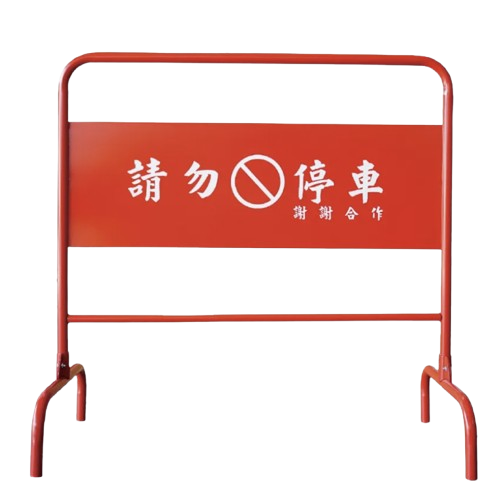
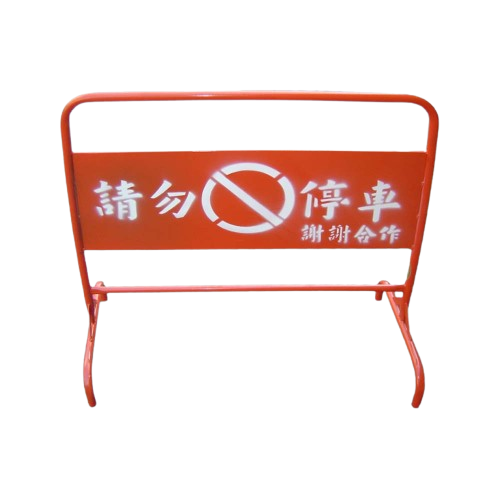
update

Changed region(s): [[0.06, 0.0907, 0.96, 0.9677]]

diff --git a/project2/index.html b/project2/index.html
@@ -1,7 +1,7 @@
 <html>
 
 <head>
-    <title>&lt3 my favorite island &lt3 </title>
+    <title> 🏝 my favorite island ❤</title>
     <!-- link to style sheet -->
     <!-- <link href="style.css" rel="stylesheet" /> -->
 
@@ -27,7 +27,7 @@
 
 
         .text {
-            text-align: justify;
+            text-align: right;
             padding-top: 50px;
             padding-right: 100px;
             line-height: 1.5;
@@ -37,7 +37,7 @@
 
             flex-direction: column;
             /* font-family: Helvetica, sans-serif; */
-            font-family: Georgia, serif;
+            /* font-family: Georgia, serif; */
 
             /* justify-content: flex-end; */
             align-items: flex-end;
@@ -55,14 +55,26 @@
             margin: 2px;
         }
 
+        span.taller2 {
+            display: inline-block;
+            transform: scale(1, 1.5);
+                        padding: 5px;
+            margin: 10px;
+
+        }
+
         h1 {}
+
+        h2 {
+            padding: 10px;
+        }
 
         p {
             /* display: flex; */
             /* justify-content: flex-end; */
             margin-top: 30px;
             width: 25vw;
-            font-size: 12px;
+            font-size: 14px;
         }
 
         #sea {
@@ -89,7 +101,8 @@
 
             text-align: justify;
 
-            width: 100vw;
+            width: 60vw;
+            /* pointer-events: none; */
 
 
 
@@ -161,6 +174,14 @@
 
         }
 
+        #taipei101 {
+            position: absolute;
+            width: 10vw;
+            left: 15vw;
+            top: 25vh;
+
+        }
+
 
         .scooter-layer {
             display: flex;
@@ -179,6 +200,16 @@
             width: 50px;
             padding: 20px;
 
+        }
+
+        #scooter2 {
+            width: 10vw;
+            position: absolute;
+            top: 50vh;
+            left: 40vw;
+
+
+
 
         }
     </style>
@@ -189,83 +220,122 @@
 
 <body>
     <div class="background-image">
+
+
+
+        <div class="first-layer">
+            <img id="sea" src="sea.png" alt="sea picture">
+
+            <img id="green-man" src="green-man.gif" alt="green-man">
+
+
+        </div>
+
+        <div class="second-layer">
+            <p id="literature">
+                It's been raining a lot the past few years.
+
+                Some places will get several hundred millimeters of
+                precipitation in a single day when there's no typhoon. <br><br>
+
+                Summer's gotten extremely hot and long, and
+                there's a shower almost every day. <br><br> My friend Ming told me that some of his bird-watching
+                friends
+                have
+                discovered that certain migratory birds can't even recognize the coastline anymore, because it's
+                changing too fast. They hesitate before they land. <br><br>
+
+                It's in a sorry state, but this is our island home.
+            </p>
+            <a href="https://www.netflix.com/title/81987107?trackId=259776131&trkId=259776131&src=tudum"
+                target="blank"><img id="taipei101" src="taipei101.png" alt="tp101"></a>
+            <img id="sign" src="sign.png" alt="sign picture">
+            <a href=" https://www.youtube.com/watch?v=slUc-4WCnhc" target="blank">
+                <img id="sunset-rollercoaster" src="sunset-rollercoaster.png" alt="sr"></a>
+            <img id="egg" src="egg.png" alt="egg">
+            <img id="bag" src="bag.png" alt="bag">
+
+            <img id="scooter2" src="scooter.png" alt="scooter">
+            <a href=" https://maps.app.goo.gl/vK97EShGBdKDSaYT7" target="blank"> <img id="sticker" src="stickers.png"
+                    alt="sticker"> </a>
+
+
+
+
+        </div>
+
+
+        <!-- <div class="scooter-layer">
+            <img id="scooter" src="scooter.png" alt="scooter">
+            <img id="scooter" src="scooter.png" alt="scooter">
+
+            <img id="scooter" src="scooter.png" alt="scooter">
+
+            <img id="scooter" src="scooter.png" alt="scooter">
+
+
+        </div> -->
+
         <div class="text">
-            <h1> &#10023 * &#65377 &#10047.Taiwan,*&#65381 &#65377 &#9829</h1>
+            <a href="https://en.wikipedia.org/wiki/Taiwan" target="blank">
+                <h1> &#10023 * &#65377 &#10047.Taiwan,*&#65381 &#65377 &#9829</h1>
+            </a>
             <p>
                 officially the Republic of China (ROC), is a <span class='taller'> <strong>country</strong> </span> in
-                <a href="https://en.wikipedia.org/wiki/East_Asia">East Asia </a> The main <a
-                    href=" https://en.wikipedia.org/wiki/Geography_of_Taiwan"> island of Taiwan </a>, also known as
-                Formosa, lies between the East and South China Seas in the northwestern Pacific Ocean, with the People's
-                Republic of China (PRC) to the northwest, Japan to the northeast, and the Philippines to the south.
+                <a href="https://en.wikipedia.org/wiki/East_Asia" target="blank">East Asia </a> The main <a
+                    href=" https://en.wikipedia.org/wiki/Geography_of_Taiwan" target="blank"> island of Taiwan </a>,
+                also known as
+                Formosa, lies between the <a href="https://en.wikipedia.org/wiki/East_China_Sea" target="blank">East</a>
+                and <a href="https://en.wikipedia.org/wiki/South_China_Sea" target="blank">South China Seas</a> in the
+                northwestern Pacific Ocean, with the <a href="https://en.wikipedia.org/wiki/China"
+                    target="blank">People's
+                    Republic of China (PRC)</a> to the northwest, Japan to the northeast, and the Philippines to the
+                south.
                 <br><br>
-                It has an area of 35,808 square kilometres, with mountain ranges dominating
-                the eastern two-thirds and plains in the western third, where its highly urbanized population is
-                concentrated.<br><br> The combined territories under ROC control consist of 168 islands<sup>[n] </sup>
+                It has an area of 35,808 square kilometres, with 🏔🏔 mountain ranges 🏔🏔 dominating
+                the eastern two-thirds and plains in the western third, <a
+                    href="https://www.hks.harvard.edu/faculty-research/policy-topics/international-relations-security/understanding-relationship-between"
+                    target="blank">where its highly urbanized population</a>F is
+                concentrated.<br><br> The combined <a
+                    href="https://en.wikipedia.org/wiki/Free_area_of_the_Republic_of_China" target="blank">territories
+                    under ROC control </a>consist of 168 islands<a href="https://www.instagram.com/fu_food_cake/"
+                    target="blank"><sup>[n] </sup></a>
                 in total
                 covering
-                36,193 square kilometres.<sup>[18][42]</sup> The largest metropolitan area is
+                36,193 square kilometres.<a href=" https://www.instagram.com/eggtalll/"
+                    target="blank"><sup>[18][42]</sup></a> The largest metropolitan area is
                 formed by
                 Taipei (the capital), New Taipei City, and Keelung. With around 23.9 million inhabitants, Taiwan is
                 among the most densely populated countries... <strong>blah blah blah </strong>
             </p>
 
-            <h2><a href="https://www.google.com/search?q=nyc+to+tpe+flight&oq=nyc+to+tpe&gs_lcrp=EgZjaHJvbWUqBwgBEAAYgAQyCQgAEEUYORiABDIHCAEQABiABDIHCAIQABiABDIICAMQABgWGB4yCAgEEAAYFhgeMggIBRAAGBYYHjIICAYQABgWGB4yCAgHEAAYFhgeMggICBAAGBYYHjIICAkQABgWGB7SAQg0ODU5ajBqOagCBbACAfEFmcwrGJCY818&sourceid=chrome&ie=UTF-8">
-                    → book a ticket</a></h2>
+            <a href="https://www.google.com/search?q=nyc+to+tpe+flight&oq=nyc+to+tpe&gs_lcrp=EgZjaHJvbWUqBwgBEAAYgAQyCQgAEEUYORiABDIHCAEQABiABDIHCAIQABiABDIICAMQABgWGB4yCAgEEAAYFhgeMggIBRAAGBYYHjIICAYQABgWGB4yCAgHEAAYFhgeMggICBAAGBYYHjIICAkQABgWGB7SAQg0ODU5ajBqOagCBbACAfEFmcwrGJCY818&sourceid=chrome&ie=UTF-8"
+                target="blank">
+                <h2>
+                    → book a ticket<br><br><br>
+            </a>
+            </h2>
+
+                        <a href="https://www.google.com/search?q=nyc+to+tpe+flight&oq=nyc+to+tpe&gs_lcrp=EgZjaHJvbWUqBwgBEAAYgAQyCQgAEEUYORiABDIHCAEQABiABDIHCAIQABiABDIICAMQABgWGB4yCAgEEAAYFhgeMggIBRAAGBYYHjIICAYQABgWGB4yCAgHEAAYFhgeMggICBAAGBYYHjIICAkQABgWGB7SAQg0ODU5ajBqOagCBbACAfEFmcwrGJCY818&sourceid=chrome&ie=UTF-8"
+                target="blank">
+            <span class="taller2">
+                <h1><u>CLICK here to book a ticket!</u></h1>
+            </span></a>
+                        <a href="https://www.google.com/search?q=nyc+to+tpe+flight&oq=nyc+to+tpe&gs_lcrp=EgZjaHJvbWUqBwgBEAAYgAQyCQgAEEUYORiABDIHCAEQABiABDIHCAIQABiABDIICAMQABgWGB4yCAgEEAAYFhgeMggIBRAAGBYYHjIICAYQABgWGB4yCAgHEAAYFhgeMggICBAAGBYYHjIICAkQABgWGB7SAQg0ODU5ajBqOagCBbACAfEFmcwrGJCY818&sourceid=chrome&ie=UTF-8"
+                target="blank">
+            <span class="taller2">
+                <h1><u>CLICK here to book a trip!</u></h1>
+            </span></a>
+                        <a href="https://www.google.com/search?q=nyc+to+tpe+flight&oq=nyc+to+tpe&gs_lcrp=EgZjaHJvbWUqBwgBEAAYgAQyCQgAEEUYORiABDIHCAEQABiABDIHCAIQABiABDIICAMQABgWGB4yCAgEEAAYFhgeMggIBRAAGBYYHjIICAYQABgWGB4yCAgHEAAYFhgeMggICBAAGBYYHjIICAkQABgWGB7SAQg0ODU5ajBqOagCBbACAfEFmcwrGJCY818&sourceid=chrome&ie=UTF-8"
+                target="blank">
+            <span class="taller2">
+                <h1><u>CLICK here to book a vocation!</u></h1>
+            </span></a>
 
 
 
         </div>
     </div>
-
-
-    <div class="first-layer">
-        <img id="sea" src="sea.png" alt="sea picture">
-
-        <img id="green-man" src="green-man.gif" alt="green-man">
-
-
-    </div>
-
-    <div class="second-layer">
-        <p id="literature">
-            It's been raining a lot the past few years.
-
-            Some places will get several hundred millimeters of
-            precipitation in a single day when there's no typhoon. <br><br>
-
-            Summer's gotten extremely hot and long, and
-            there's a shower almost every day. <br><br> My friend Ming told me that some of his bird-watching friends
-            have
-            discovered that certain migratory birds can't even recognize the coastline anymore, because it's
-            changing too fast. They hesitate before they land. <br><br>
-
-            It's in a sorry state, but this is our island home.
-        </p>
-
-        <img id="sign" src="sign.png" alt="sign picture">
-        <img id="sticker" src="stickers.png" alt="sticker">
-
-        <img id="sunset-rollercoaster" src="sunset-rollercoaster.png" alt="sr">
-        <img id="egg" src="egg.png" alt="egg">
-        <img id="bag" src="bag.png" alt="bag">
-
-
-
-
-
-    </div>
-
-    <div class="scooter-layer">
-        <img id="scooter" src="scooter.png" alt="scooter">
-        <img id="scooter" src="scooter.png" alt="scooter">
-
-        <img id="scooter" src="scooter.png" alt="scooter">
-
-        <img id="scooter" src="scooter.png" alt="scooter">
-
-
-    </div>
-
 
 </body>
 
